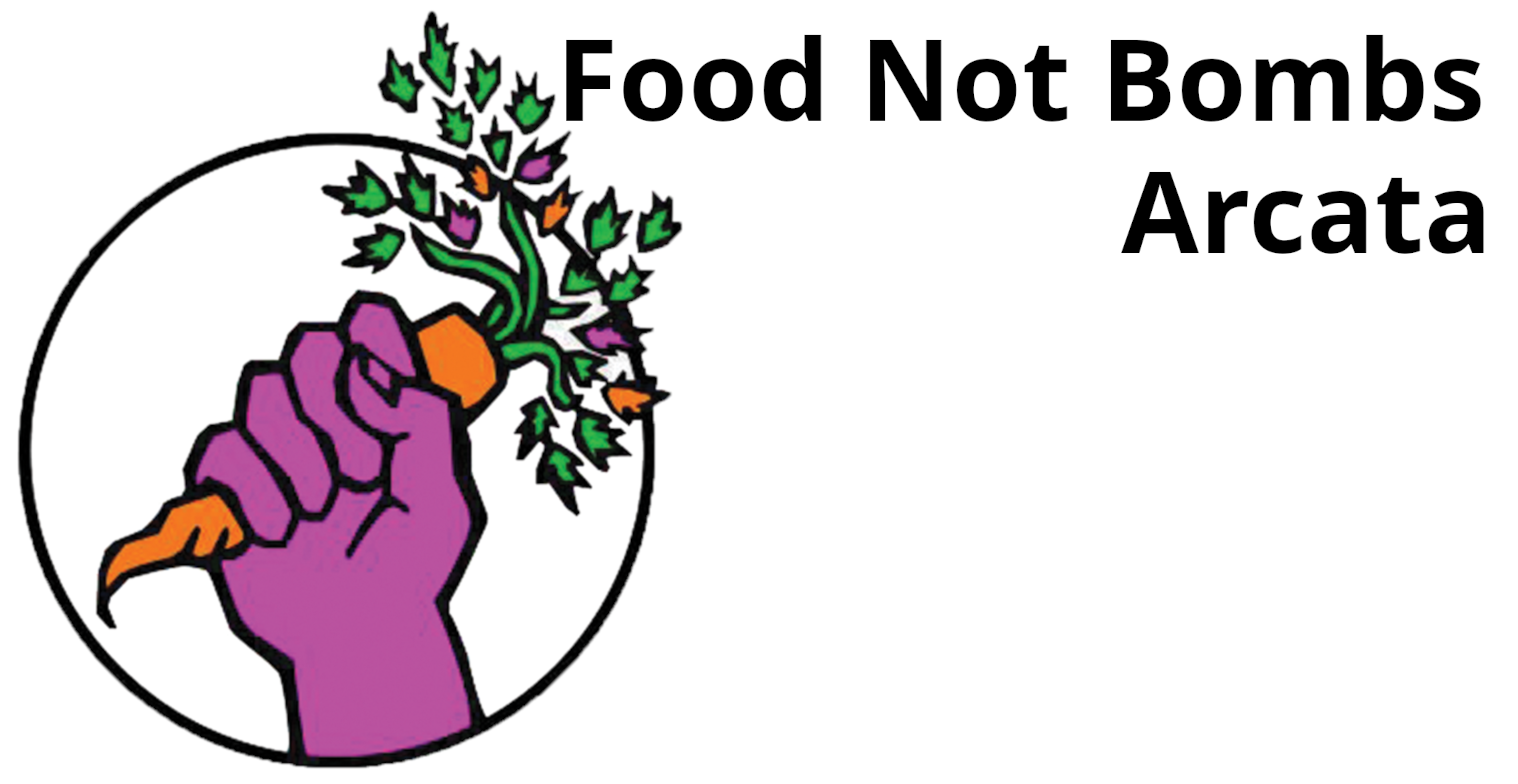
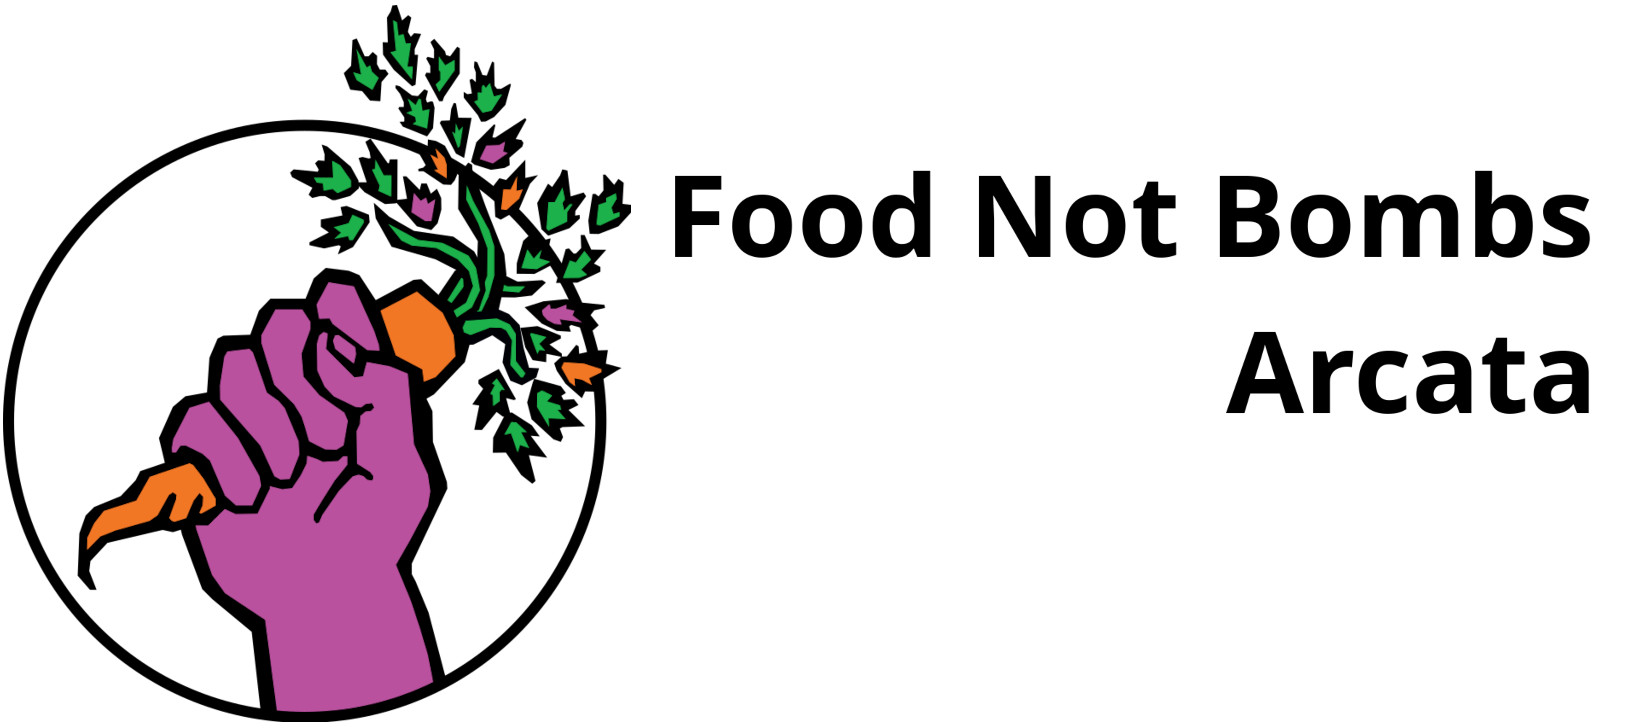
Added main site info
Orgnaized footer links

Changed region(s): [[0.0, 0.0, 0.9908, 0.9973], [0.7431, 0.4533, 0.9908, 0.5742]]

diff --git a/layouts/partials/foot_custom.html b/layouts/partials/foot_custom.html
@@ -1,1 +1,5 @@
-<a href="https://www.facebook.com/foodnotbombsarcata"><img src="/images/facebook-logo.webp" alt="Facebook page" height="50"></a> &nbsp;&nbsp; <a href="https://www.instagram.com/foodnotbombsarcata"> <img src="/images/instagram-logo.webp" alt="Instagram page" height="50"></a> &nbsp;&nbsp; <a href="http://foodnotbombs.net"> <img src="/images/favicon.ico" alt="Food Not Bombs main site" height="50"></a>
+<a>Find us on social media:</a> &nbsp;&nbsp;&nbsp;&nbsp;&nbsp;&nbsp;&nbsp;&nbsp;&nbsp;&nbsp;&nbsp;&nbsp;&nbsp;&nbsp;&nbsp;&nbsp;&nbsp; <a>Check out the Food Not Bombs:</a>&nbsp;&nbsp;&nbsp;&nbsp;&nbsp;&nbsp;
+<br>
+&nbsp;&nbsp;&nbsp;&nbsp;&nbsp;&nbsp;&nbsp;&nbsp;&nbsp;&nbsp;&nbsp;&nbsp;&nbsp;&nbsp;&nbsp;&nbsp;&nbsp;&nbsp;&nbsp;&nbsp;&nbsp;&nbsp;&nbsp;&nbsp;&nbsp;&nbsp;&nbsp;&nbsp;&nbsp;&nbsp;&nbsp;&nbsp;&nbsp;&nbsp;&nbsp;&nbsp;&nbsp;&nbsp;&nbsp;&nbsp;&nbsp;&nbsp;&nbsp;&nbsp;&nbsp;&nbsp;&nbsp;&nbsp;&nbsp;&nbsp;&nbsp;&nbsp;&nbsp;&nbsp;&nbsp;&nbsp;&nbsp;&nbsp;&nbsp;&nbsp;&nbsp; <a>Main Site</a> &nbsp;&nbsp;&nbsp;&nbsp;&nbsp;&nbsp;&nbsp;&nbsp;&nbsp;&nbsp;<a>History</a>
+<br>
+<a href="https://www.facebook.com/foodnotbombsarcata"><img src="/images/facebook-logo.webp" alt="Facebook page" height="50"></a> &nbsp;&nbsp;&nbsp;&nbsp;&nbsp;&nbsp;&nbsp;&nbsp;&nbsp;&nbsp;&nbsp;&nbsp; <a href="https://www.instagram.com/foodnotbombsarcata"> <img src="/images/instagram-logo.webp" alt="Instagram page" height="50"></a> &nbsp;&nbsp;&nbsp;&nbsp;&nbsp;&nbsp;&nbsp;&nbsp;&nbsp;&nbsp;&nbsp;&nbsp;&nbsp;&nbsp;&nbsp;&nbsp;&nbsp;&nbsp;&nbsp;&nbsp;&nbsp; <a href="http://foodnotbombs.net"> <img src="/images/foodnotbombs-logo.png" alt="Food Not Bombs main site" height="50"></a> &nbsp;&nbsp;&nbsp;&nbsp;&nbsp;&nbsp;&nbsp;&nbsp;&nbsp;&nbsp;&nbsp;&nbsp; <a href="http://foodnotbombs.net/story.html"> <img src="/images/foodnotbombs-logo.png" alt="Food Not Bombs history" height="50"></a>

diff --git a/layouts/partials/head_custom.html b/layouts/partials/head_custom.html
@@ -1,1 +1,1 @@
-<img src="/images/fnba-banner.png" alt="Food Not Bombs Arcata Banner" height="300">
+<img src="/images/fnba-banner.png" alt="Food Not Bombs Arcata Banner" height="240">

diff --git a/content/about.md b/content/about.md
@@ -1,0 +1,8 @@
+# About Food Not Bombs
+Food Not Bombs is an all-volunteer movement that recovers food that would otherwise be discarded, and shares free vegan and vegetarian meals with the hungry in over 1,000 cities in 65 countries in protest to war, poverty, and destruction of the environment. 
+
+We arrange the collection of produce, bread and other food that can't be sold from grocery stores, bakeries, and produce markets. They put this food to the side and we pick it up at a scheduled time. This way, we build personal relationships with local food providers and are able to collect larger amounts of better quality food with more regularity.
+
+Our movement has no headquarters or positions of leadership and we use the process of consensus to make decisions. We also provide food and supplies to the survivors of natural disasters, and people participating in occupations, strikes, marches and other protests.
+
+Even though we provide meals and groceries to thousands of people, we are not a charity. Food Not Bombs is trying to inspire the public to participate in changing society and focus our resources on solving problems like hunger, homelessness and poverty while seeking an end to war and the destruction of the environment. We are also showing by example that we can work cooperatively without leaders through volunteer effort to provide essential needs like food, housing, education and healthcare. When over a billion people go hungry each day, how can we spend another dollar on war? 

diff --git a/content/get-involved.md b/content/get-involved.md
@@ -2,14 +2,18 @@ Food Not Bombs Arcata is looking for volunteers, advocates and allies. We glean 
 
 Anyone can stop by to help serve food with us and this is a great way to meet the group and start helping.
 
-We are always looking for volunteers to join us for any role during our Sunday schedule:
+You can also get in touch by filling out the following google form [here](https://docs.google.com/forms/d/e/1FAIpQLScwlUxvl8ORv_8l9fJncTb1AJz2bpqc1nWV4Li1mMyfd8e33w/viewform) 
 
-12:30PM: picking up food from the co-op
+Or by reaching out to **707 - 335 - 9802**
 
-1PM - 3:45PM: Prepping and cooking food
+We are always looking for volunteers to join us 
+for any role during our Sunday schedule:
 
-3:50PM - 5PM: Setting up and serving food in the plaza
+| **12:30PM:** | **picking up food from the co-op** |
+| --- | ------ |
+| **1PM - 3:45PM:** | **Prepping and cooking food** |
+| **3:50PM - 5PM:** | **Setting up and serving food** |
+| **5PM:** | **Cleanup and dish washing** |
 
-5PM: Cleanup and dishes
 
-You can also get in touch by filling out the following google form [here](https://docs.google.com/forms/d/e/1FAIpQLScwlUxvl8ORv_8l9fJncTb1AJz2bpqc1nWV4Li1mMyfd8e33w/viewform)
+
